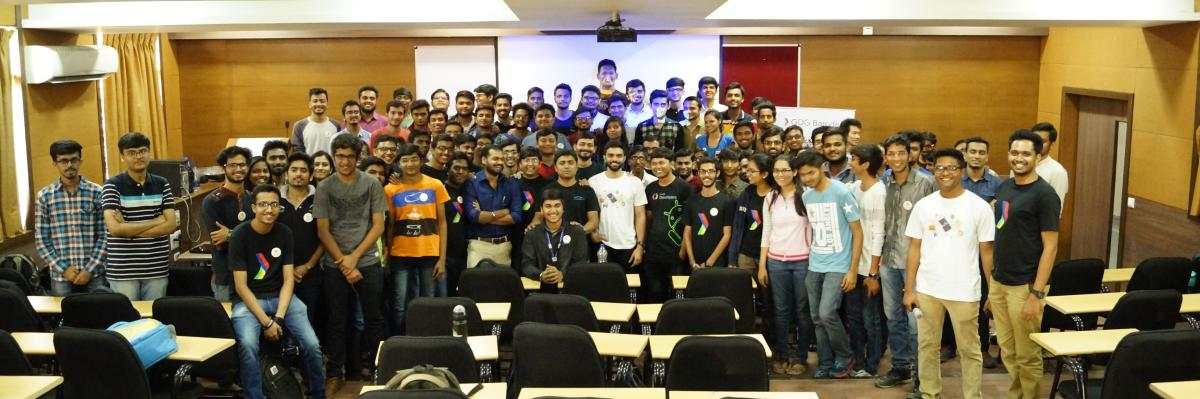
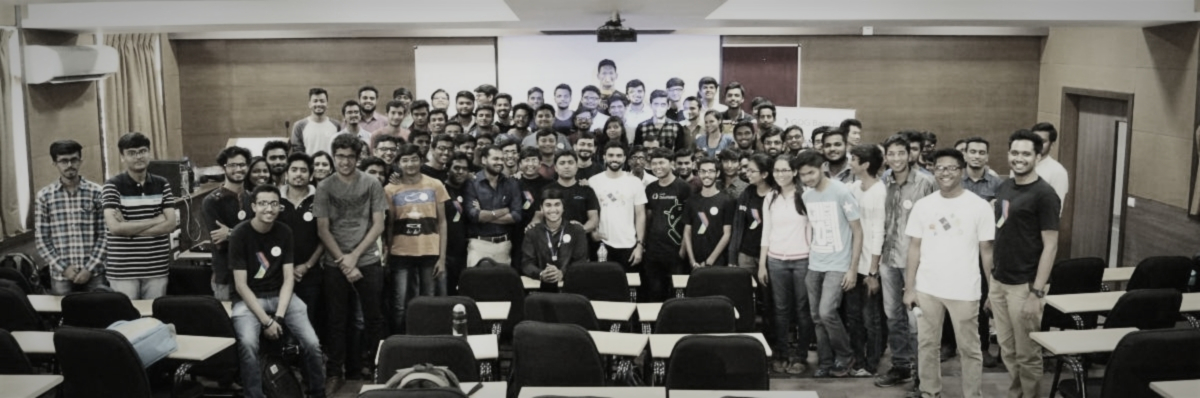
Merge : Facebook comments feature and other fixes (#2) @sagarvora
* Fixed responsiveness of disclaimer, added facebook comments support in posts and moderators for the same, custom CSS to remove transition from anchor tag.

* Minor changes in design and language, add filter to cover photo

* rename all-posts to blog in file and nav

* Make requested changes.

diff --git a/_layouts/base.html b/_layouts/base.html
@@ -4,7 +4,9 @@
   <meta charset="utf-8">
   <meta http-equiv="X-UA-Compatible" content="IE=edge">
   <meta name="viewport" content="width=device-width, initial-scale=1">
-  <title>{{site.title}} : {{site.description}}</title>
+  <meta property="fb:admins" content="jadhavmanan"/>
+  <meta property="fb:admins" content="bankerrahul"/>
+  <title>{{site.title}} | {{site.description}}</title>
   <link rel="shortcut icon" type="image/png" href="/favicon.png"/>
   <link href="/app.css" rel="stylesheet">
   <link href="https://maxcdn.bootstrapcdn.com/font-awesome/4.7.0/css/font-awesome.min.css" rel="stylesheet"/>
@@ -17,9 +19,37 @@
   <![endif]-->
 </head>
 <body>
+  <!-- Facebook SDK -->
+  <div id="fb-root"></div>
+  <script>
+    (function(d, s, id) {
+    var js, fjs = d.getElementsByTagName(s)[0];
+    if (d.getElementById(id)) return;
+    js = d.createElement(s); js.id = id;
+    js.src = "//connect.facebook.net/en_GB/sdk.js#xfbml=1&version=v2.8";
+    fjs.parentNode.insertBefore(js, fjs);
+    }(document, 'script', 'facebook-jssdk'));
+  </script>
+
+
+
   {% include navbar.html %}
   <div class="container">
     {{content}}
   </div>
+
+
+
+<!-- jQuery -->
+<script
+  src="https://code.jquery.com/jquery-3.1.1.min.js"
+  integrity="sha256-hVVnYaiADRTO2PzUGmuLJr8BLUSjGIZsDYGmIJLv2b8="
+  crossorigin="anonymous"></script>
+
+<!-- Bootstrap JS -->
+<script
+  src="https://maxcdn.bootstrapcdn.com/bootstrap/3.3.7/js/bootstrap.min.js"
+  integrity="sha384-Tc5IQib027qvyjSMfHjOMaLkfuWVxZxUPnCJA7l2mCWNIpG9mGCD8wGNIcPD7Txa"  crossorigin="anonymous"></script>
+
 </body>
 </html>

diff --git a/index.html b/index.html
@@ -4,25 +4,23 @@ layout: base
 <div class="row">
   <div class="col-md-9">
 
-    <img src="gdg_baroda_cover.jpg" class="img-responsive">
-
-    <br />
+    <img src="gdg_baroda_cover.jpg" class="img-responsive panel">
     <div class="panel panel-body">
-      <h3>Welcome to GDG Baroda</h3>
+      <h3>Welcome to GDG Baroda!</h3>
       <p>
         Google Developers Group Baroda is a technology user group that meets to discuss the latest Google
         Technologies, Tools, SDKs, and APIs. The focus is on learning about the broad spectrum of technologies
-        provided by Google and finding ways that these technologies can be applied. This includes discussions of
-        the technologies from a number of angles (start ups, corporations, and individuals).
+        provided by Google and finding innovative ways to apply them. This includes discussions of
+        the technologies from a variety of perspectives (startups, corporations, and individuals).
       </p>
     </div>
-
-    <i>
-      Disclaimer: GDG Baroda is an independent group; our activities and the opinions expressed on this page should
-      in no way be linked to Google, the corporation.
-    </i>
   </div>
   <div class="col-md-3">
     {% include sidebar.html %}
+  </div>
+  <div class="col-md-9">
+    <p><em>
+      Disclaimer: GDG Baroda is an independent group; our activities and the opinions expressed on this page should in no way be linked to Google, the corporation.
+    </em></p>
   </div>
 </div>

diff --git a/_includes/sidebar.html b/_includes/sidebar.html
@@ -6,7 +6,7 @@
       <li>
         <a href="{{ post.url }}">
           {{ post.title }} <br />
-          <div class="post-details">{{post.author}} @ {{post.date | date_to_long_string}}</div>
+          <div class="post-details">By {{post.author}} on {{post.date | date_to_string}}</div>
         </a>
       </li>
       {% endfor %}
@@ -17,12 +17,12 @@
   <div class="panel-heading">Join GDG Baroda</div>
   <div class="panel-body">
     <p>
-      We are an open for all and diverse group, students, industry, professionals, all are welcome !
+      We are open for everyone: groups, students, industry professionals, all are welcome!
     </p>
     <p>
       By filling the form, you are showing your interest in joining GDG Baroda. You will be added to our community
       when you attend your first event.
     </p>
-    <a class="btn btn-block btn-primary" href="https://docs.google.com/forms/d/e/1FAIpQLScsk2JpttDCSVtTlNmrXXY3XtAoCmGn9HuIv9B9dDkEMIBghA/viewform">I want to join !</a>
+    <a class="btn btn-block btn-primary" href="https://docs.google.com/forms/d/e/1FAIpQLScsk2JpttDCSVtTlNmrXXY3XtAoCmGn9HuIv9B9dDkEMIBghA/viewform">Join Us</a>
   </div>
 </div>

diff --git a/_includes/navbar.html b/_includes/navbar.html
@@ -13,12 +13,11 @@
     </div>
 
     <div class="collapse navbar-collapse" id="navbar-collapse">
-      <ul class="nav navbar-nav">
-        <li><a href="/all-posts"><i class="fa fa-list"></i> All Posts</a></li>
-        <!--<li><a href="/gallery"><i class="fa fa-photo"></i> Photo Gallery</a></li>-->
-      </ul>
       <ul class="nav navbar-nav navbar-right">
-        <!--<li><a href="#"> <i class="fa fa-star"></i> Join GDG Baroda</a></li>-->
+        <!-- <li><a href="#"><i class="fa fa-calendar"></i> Events</a></li> -->
+        <li><a href="/all-posts"><i class="fa fa-rss"></i> All Posts</a></li>
+        <li><a href="https://docs.google.com/forms/d/e/1FAIpQLScsk2JpttDCSVtTlNmrXXY3XtAoCmGn9HuIv9B9dDkEMIBghA/viewform">
+        <i class="fa fa-sign-in"></i> Join Us</a></li>
       </ul>
     </div>
   </div>

diff --git a/all-posts.html b/all-posts.html
@@ -4,13 +4,14 @@ layout: base
 <div class="row">
   <div class="col-md-12">
     <h3>All Posts</h3>
+    <br />
     <div class="row">
     {% for post in site.posts %}
       <div class="col-md-3">
         <div class="panel panel-body post-preview">
           <a href="{{ post.url }}"> {{ post.title }} </a>
           <br />
-          <div class="post-details">{{post.author}} @ {{post.date | date_to_long_string}}</div>
+          <div class="post-details">By {{post.author}} on {{post.date | date_to_string}}</div>
         </div>
       </div>
     {% endfor %}

diff --git a/app.scss b/app.scss
@@ -3,6 +3,20 @@
 
 @import "paper.bootstrap.css";
 
+body {
+  background: #dedede;
+}
+
+h3 {
+	font-weight: 300;
+}
+
+a {
+  -webkit-transition: none;
+  -o-transition: all 0;
+  transition: none;
+}
+
 .navbar-brand {
   padding: 20px 15px;
   img {
@@ -10,8 +24,12 @@
   }
 }
 
-body {
-  background: #dedede;
+.navbar-nav .fa {
+	margin-right: 4px;
+}
+
+.navbar-default .navbar-nav > li > a {
+	color: #767676;
 }
 
 @import "post";

diff --git a/_layouts/post.html b/_layouts/post.html
@@ -1,10 +1,14 @@
 ---
 layout: base
 ---
+
 <div class="row">
   <div class="col-md-9">
     <div class="panel panel-body">
+
       {% include post_content.html %}
+
+      <div class="fb-comments" data-href="{{ site.url }}{{ page.url }}" data-numposts="4" data-width="100%"></div>
     </div>
   </div>
   <div class="col-md-3">

diff --git a/_scss/post.scss b/_scss/post.scss
@@ -3,3 +3,7 @@
   font-size: 12px;
   color: #9e9e9e;
 }
+
+.fb-comments > span {
+	margin-top: 15px;
+}

diff --git a/_posts/2017-02-12-a-new-beginning.md b/_posts/2017-02-12-a-new-beginning.md
@@ -2,7 +2,7 @@
 layout: post
 title: "A New Beginning!"
 date: 2017-02-12 9:00:00 +0530
-categories: general post
+categories: general
 author: Manan Jadhav
 ---
 
